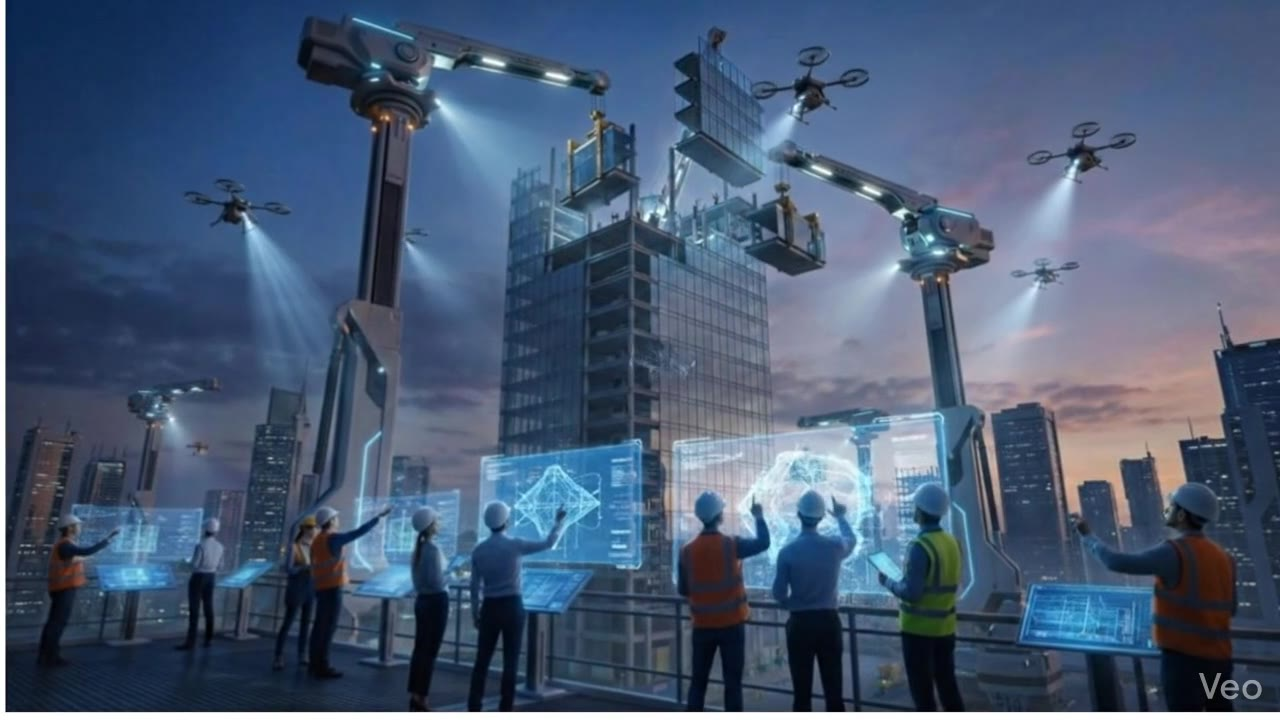
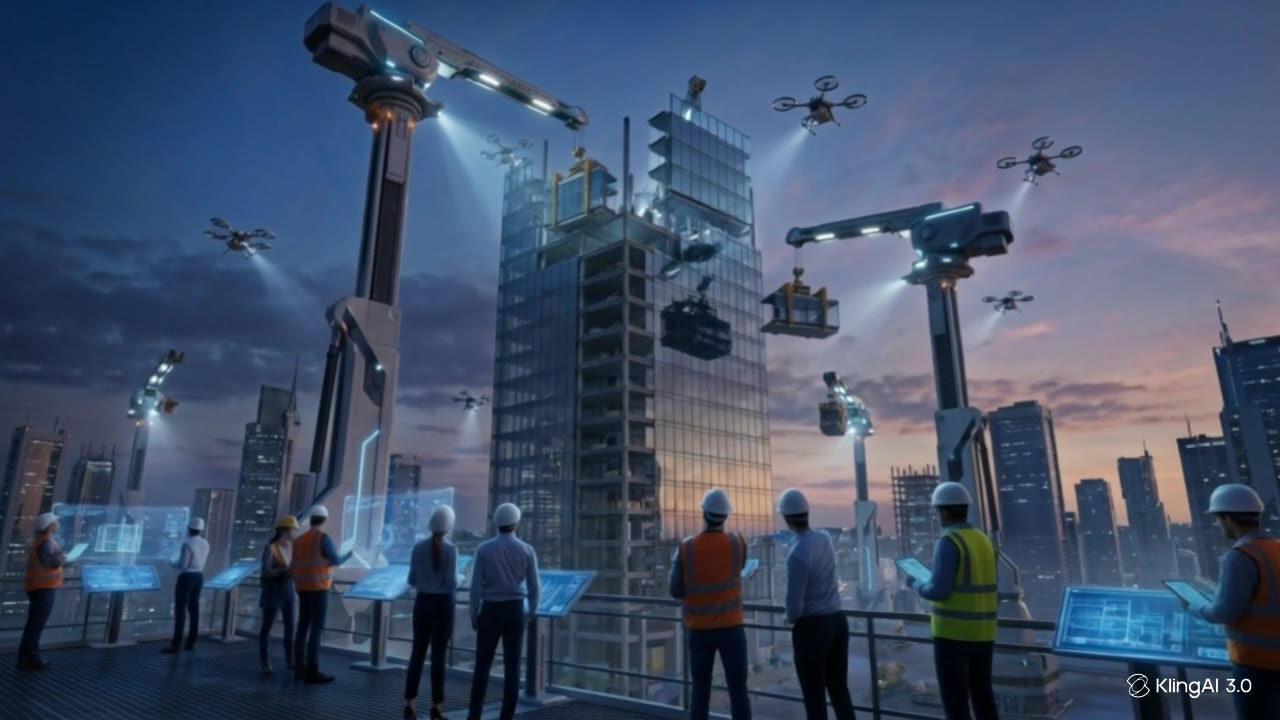
Add files via upload

diff --git a/index.html b/index.html
@@ -174,6 +174,10 @@ nav.scrolled{background:rgba(10,10,10,.72);backdrop-filter:blur(14px);border-bot
 .scroll-cue{position:absolute;bottom:64px;left:50%;transform:translateX(-50%);z-index:2;font-family:'IBM Plex Mono',monospace;font-size:.66rem;letter-spacing:.3em;color:var(--muted);text-transform:uppercase;display:flex;flex-direction:column;align-items:center;gap:8px;animation:bob 2.4s ease-in-out infinite}
 @keyframes bob{0%,100%{transform:translate(-50%,0)}50%{transform:translate(-50%,8px)}}
 @media(max-width:860px){.scroll-cue,.hero-strip{display:none}}
+@media(max-width:860px){
+  .hero{align-items:flex-start}
+  .hero-inner{padding-top:104px;padding-bottom:60px}
+}
 
 /* ---------- cards ---------- */
 .grid{display:grid;gap:20px}